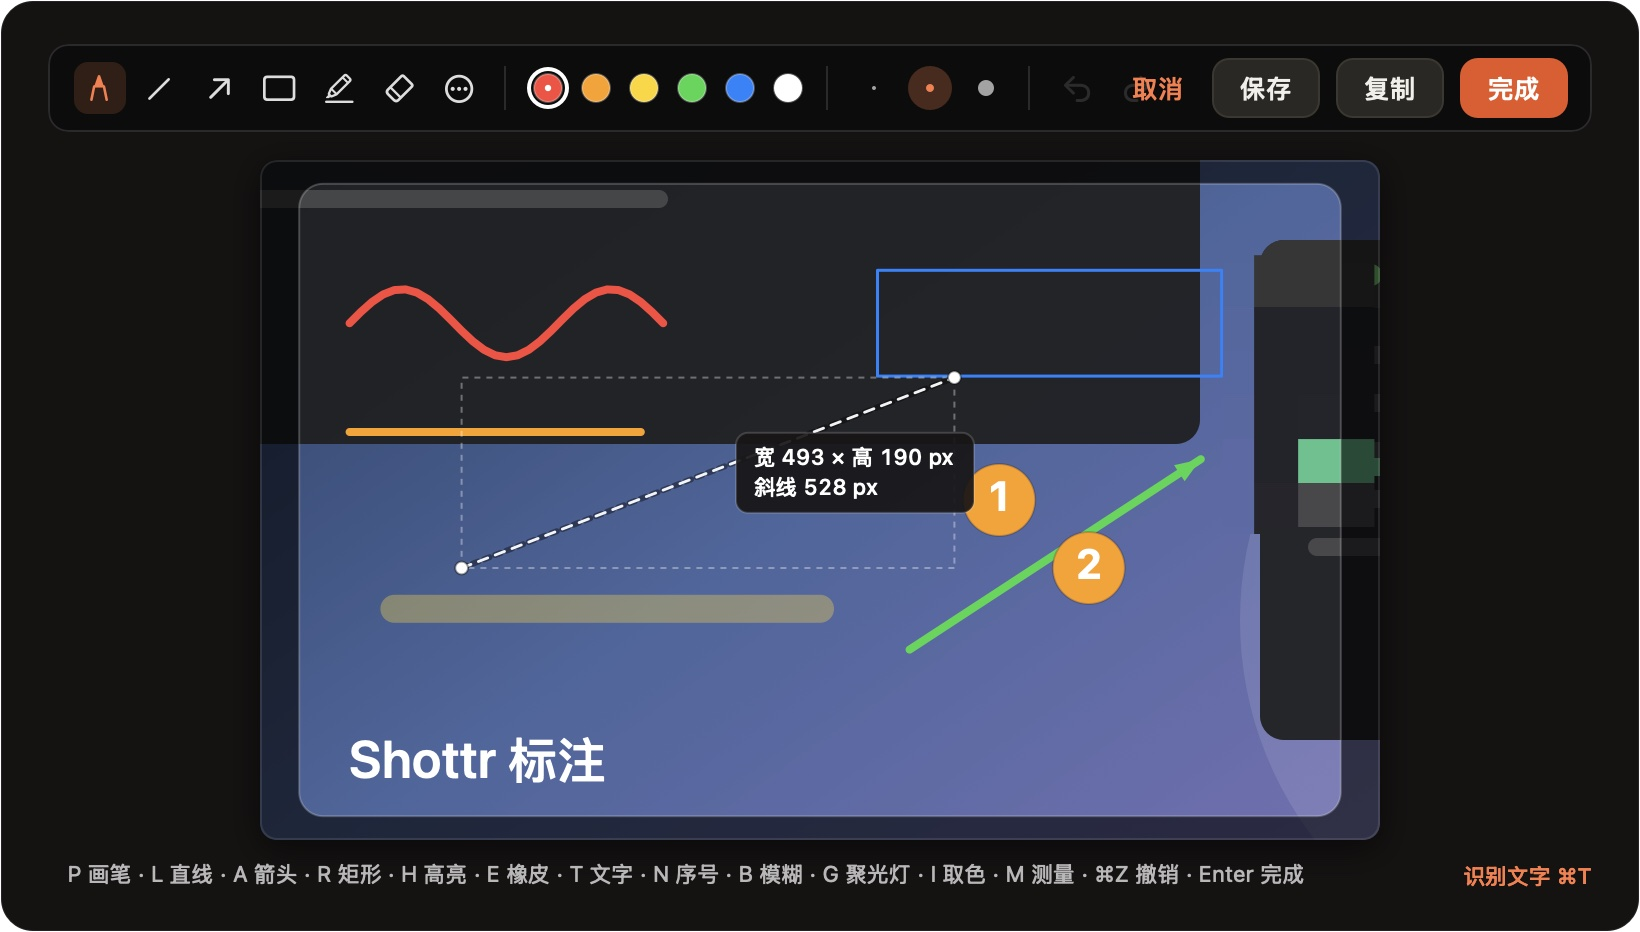
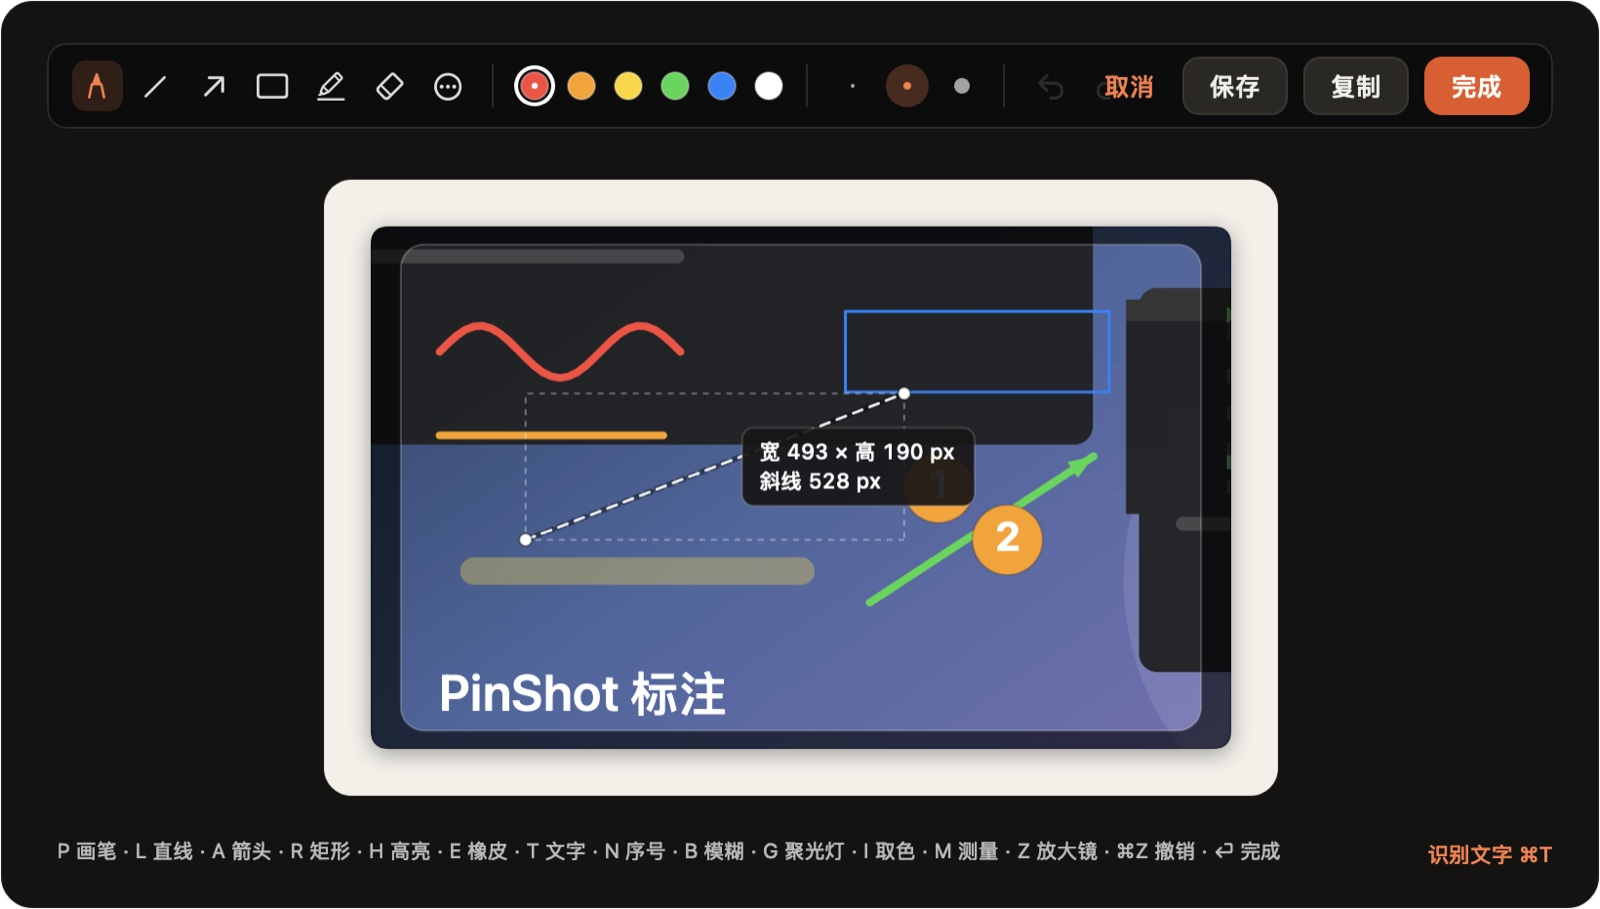
docs: polish product site and add v1.1.0 download cards

Changed region(s): [[0.0312, 0.154, 0.8438, 0.9549]]

diff --git a/docs/index.html b/docs/index.html
@@ -4,12 +4,12 @@
 <meta charset="utf-8">
 <meta name="viewport" content="width=device-width, initial-scale=1">
 <title>PinShot — 截图之后，别让它消失</title>
-<meta name="description" content="PinShot 是 macOS 菜单栏里的截图挂件：框选、标注、缩放，浮在窗口之上或挂在桌面；鼠标离开自动淡出。开源、原生 AppKit、无第三方依赖。">
+<meta name="description" content="PinShot 是 macOS 菜单栏里的截图挂件：框选、标注、OCR、滚动截图、背景板；浮在窗口之上或挂在桌面，鼠标离开自动淡出。开源、原生 AppKit、无第三方依赖。">
 <link rel="canonical" href="https://xincxiong.github.io/PinShot/">
 <meta name="theme-color" content="#171a1d">
 <meta property="og:type" content="website">
 <meta property="og:title" content="PinShot — 截图之后，别让它消失">
-<meta property="og:description" content="macOS 截图挂件：框选、标注、缩放、挂在桌面，自动隐藏。">
+<meta property="og:description" content="macOS 截图挂件：框选、标注、OCR、滚动截图、背景板，自动隐藏。">
 <meta property="og:url" content="https://xincxiong.github.io/PinShot/">
 <meta property="og:image" content="images/app-icon.png">
 <link rel="icon" href="images/app-icon.png">
@@ -22,11 +22,12 @@
     <a class="brand" href="#top" aria-label="PinShot 首页">
       <img src="images/app-icon.png" alt="" width="26" height="26">
       <span>PinShot</span>
-      <small>1.0.0</small>
+      <small>1.1.0</small>
     </a>
     <nav class="nav" aria-label="主导航">
       <a href="#modes">贴图</a>
       <a href="#annotate">标注</a>
+      <a href="#toolbox">工具</a>
       <a href="#install">安装</a>
       <a href="https://github.com/xincxiong/PinShot" rel="noopener">GitHub</a>
     </nav>
@@ -38,11 +39,12 @@
   <section class="hero" aria-labelledby="hero-title">
     <div class="container hero-grid">
       <div class="hero-copy">
+        <div class="release-pill"><span class="status-dot"></span>1.1.0 已发布 · OCR / 滚动截图 / 背景板</div>
         <p class="meta">macOS 14+ · Windows 10/11 · 开源 · MIT</p>
         <h1 id="hero-title">截图之后，<br><span class="outline">别让它消失。</span></h1>
         <p class="lede">PinShot 把框选截图变成一块随手可用的挂件：可以标注、识别文字、缩放，浮在窗口之上，或像便签一样挂在桌面。鼠标移开自动淡出，扫回原处立刻恢复。</p>
         <div class="hero-actions">
-          <a class="btn-primary" href="https://github.com/xincxiong/PinShot/releases/download/v1.0.0/PinShot-1.0.0-macOS-arm64.dmg">下载 1.0.0</a>
+          <a class="btn-primary" href="https://github.com/xincxiong/PinShot/releases/download/v1.1.0/PinShot-1.1.0-macOS-arm64.dmg">下载 1.1.0</a>
           <a class="text-link" href="https://github.com/xincxiong/PinShot" rel="noopener">在 GitHub 查看源码 <span aria-hidden="true">↗</span></a>
         </div>
         <dl class="facts">
@@ -80,7 +82,9 @@
       <span class="key">⇧⌘2</span><span>框选</span>
       <span class="arrow" aria-hidden="true">→</span><span class="key">A</span><span>标注</span>
       <span class="arrow" aria-hidden="true">→</span><span>拖角缩放</span>
-      <span class="arrow" aria-hidden="true">→</span><span>贴在桌面</span>
+      <span class="arrow" aria-hidden="true">→</span><span>OCR 取字</span>
+      <span class="arrow" aria-hidden="true">→</span><span>滚动截图</span>
+      <span class="arrow" aria-hidden="true">→</span><span>背景板</span>
       <span class="arrow" aria-hidden="true">→</span><span>自动淡出</span>
     </div>
   </div>
@@ -110,6 +114,43 @@
         </div>
         <p>放在桌面图标之上、普通窗口之下。工作窗口盖上来时它安静待着，回到桌面它就在那里。</p>
       </article>
+    </div>
+  </section>
+
+  <section class="section toolbox-section" id="toolbox">
+    <div class="container toolbox-head">
+      <div>
+        <p class="section-label">工具矩阵</p>
+        <h2>截图之后，<br>还能做更多。</h2>
+      </div>
+      <p>从快速取字到长图拼接，从像素放大到干净导出；常用的那几件事，不需要再打开第二个 App。</p>
+    </div>
+    <div class="container toolbox-list">
+      <div class="tool-row">
+        <div class="tool-name"><span class="tool-mark">Aa</span><h3>文字识别</h3></div>
+        <p>自动识别截图中的中英文与二维码，结果面板可直接选择或复制全文。</p>
+        <span class="tool-keys"><kbd>⌘T</kbd></span>
+      </div>
+      <div class="tool-row">
+        <div class="tool-name"><span class="tool-mark">↕</span><h3>滚动截图</h3></div>
+        <p>框选后自动滚动并拼接长页面；没有辅助功能权限时，手动滚动也能完成。</p>
+        <span class="tool-keys"><kbd>菜单栏</kbd></span>
+      </div>
+      <div class="tool-row">
+        <div class="tool-name"><span class="tool-mark">◱</span><h3>窗口 / 全屏 / 延时</h3></div>
+        <p>从窗口列表选择、截取整屏，或留出 3/5/10 秒布置界面；也能重复上次区域。</p>
+        <span class="tool-keys"><kbd>Shift</kbd><span>正方形</span></span>
+      </div>
+      <div class="tool-row">
+        <div class="tool-name"><span class="tool-mark">⌕</span><h3>像素工具</h3></div>
+        <p>放大镜查看像素、取色复制 hex、测量像素尺寸，并显示 WCAG 对白/对黑对比度。</p>
+        <span class="tool-keys"><kbd>Z</kbd><kbd>I</kbd><kbd>M</kbd></span>
+      </div>
+      <div class="tool-row">
+        <div class="tool-name"><span class="tool-mark">▤</span><h3>背景板</h3></div>
+        <p>给截图垫一层纸白、石墨、纯白或信号橙底色，加圆角与阴影后直接贴图或导出。</p>
+        <span class="tool-keys"><kbd>⋯</kbd><span>更多工具</span></span>
+      </div>
     </div>
   </section>
 
@@ -173,7 +214,7 @@
           <p class="section-label">首次使用</p>
           <h2>三步，第一张挂件。</h2>
         </div>
-        <p class="install-aside">macOS 14+ / Apple Silicon；Windows 10/11 x64。macOS 安装包约 1.7 MB，Windows 便携包约 151 MB。</p>
+        <p class="install-aside">macOS 14+ / Apple Silicon；Windows 10/11 x64。macOS 安装包约 2.5 MB，Windows 便携包约 151 MB。</p>
       </div>
       <ol class="steps">
         <li class="step">
@@ -202,19 +243,35 @@
   </section>
 
   <section class="download" id="download">
-    <div class="container download-grid">
+    <div class="container download-head">
       <div>
         <p class="section-label light">下载</p>
         <h2>把下一张截图<br>留在屏幕上。</h2>
-        <p class="download-note">v1.0.0 · macOS 14+ / Windows 10+ · MIT 开源</p>
       </div>
-      <div class="download-actions">
-        <a class="btn-primary big" href="https://github.com/xincxiong/PinShot/releases/download/v1.0.0/PinShot-1.0.0-macOS-arm64.dmg">下载 DMG <span aria-hidden="true">↓</span></a>
-        <a class="btn-outline" href="https://github.com/xincxiong/PinShot/releases/download/v1.0.0/PinShot-1.0.0-macOS-arm64.zip">下载 macOS ZIP</a>
-        <a class="btn-outline" href="https://github.com/xincxiong/PinShot/releases/download/v1.0.0-windows/PinShot-1.0.0-windows-x64.zip">下载 Windows (Beta)</a>
-        <a class="text-link light" href="https://github.com/xincxiong/PinShot/releases/tag/v1.0.0" rel="noopener">macOS 版本说明与校验和 <span aria-hidden="true">↗</span></a>
-        <a class="text-link light" href="https://github.com/xincxiong/PinShot/releases/tag/v1.0.0-windows" rel="noopener">Windows 版本说明 <span aria-hidden="true">↗</span></a>
-      </div>
+      <p>macOS 1.1.0 已发布；Windows 版为 Beta。两个平台都开源，无需账户。</p>
+    </div>
+    <div class="container platforms">
+      <article class="platform-card">
+        <div class="platform-top"><span class="platform-os">macOS</span><span class="platform-version">1.1.0</span></div>
+        <p>macOS 14+ · Apple Silicon · 原生 AppKit</p>
+        <div class="platform-actions">
+          <a class="btn-primary" href="https://github.com/xincxiong/PinShot/releases/download/v1.1.0/PinShot-1.1.0-macOS-arm64.dmg">下载 DMG <span aria-hidden="true">↓</span></a>
+          <a class="btn-outline" href="https://github.com/xincxiong/PinShot/releases/download/v1.1.0/PinShot-1.1.0-macOS-arm64.zip">ZIP</a>
+        </div>
+        <a class="platform-link" href="https://github.com/xincxiong/PinShot/releases/tag/v1.1.0" rel="noopener">版本说明与校验和 <span aria-hidden="true">↗</span></a>
+      </article>
+      <article class="platform-card platform-beta">
+        <div class="platform-top"><span class="platform-os">Windows</span><span class="platform-version">1.0.0 · Beta</span></div>
+        <p>Windows 10/11 x64 · Electron 便携版</p>
+        <div class="platform-actions">
+          <a class="btn-outline" href="https://github.com/xincxiong/PinShot/releases/download/v1.0.0-windows/PinShot-1.0.0-windows-x64.zip">下载 ZIP <span aria-hidden="true">↓</span></a>
+        </div>
+        <a class="platform-link" href="https://github.com/xincxiong/PinShot/releases/tag/v1.0.0-windows" rel="noopener">Windows Beta 说明 <span aria-hidden="true">↗</span></a>
+      </article>
+    </div>
+    <div class="container download-foot">
+      <span>v1.1.0 · MIT 开源</span>
+      <span>首次打开 macOS 版需右键 → 打开；Windows 需 SmartScreen 允许。</span>
     </div>
   </section>
 </main>

diff --git a/docs/style.css b/docs/style.css
@@ -317,3 +317,118 @@ code, pre { font-family: var(--mono); font-size: 12px; }
   html { scroll-behavior: auto; }
   *, *::before, *::after { animation: none !important; transition: none !important; }
 }
+
+/* ---------- 1.1.0 polish ---------- */
+.hero::after {
+  content: "";
+  position: absolute;
+  inset: -20% -10% auto auto;
+  width: 720px;
+  height: 720px;
+  background: radial-gradient(circle, rgba(232, 85, 31, .16), rgba(232, 85, 31, 0) 62%);
+  pointer-events: none;
+  z-index: 0;
+}
+.hero .container { position: relative; z-index: 1; }
+.release-pill {
+  display: inline-flex;
+  align-items: center;
+  gap: 8px;
+  font-family: var(--mono);
+  font-size: 10.5px;
+  color: rgba(251, 250, 246, .74);
+  border: 1px solid rgba(251, 250, 246, .16);
+  background: rgba(251, 250, 246, .06);
+  padding: 6px 10px;
+  border-radius: 999px;
+  margin-bottom: 20px;
+}
+.status-dot {
+  width: 6px; height: 6px; border-radius: 50%;
+  background: var(--signal-bright);
+  box-shadow: 0 0 0 3px rgba(232, 85, 31, .16);
+}
+.hero .meta { margin-bottom: 0; }
+.pin-card { transition: transform .28s cubic-bezier(.2, .8, .2, 1), box-shadow .28s ease; }
+.pin-card:hover { transform: rotate(var(--rot)) translateY(-5px); box-shadow: 0 42px 84px rgba(0,0,0,.55), 0 4px 12px rgba(0,0,0,.3); }
+.nav a { position: relative; }
+.nav a::after {
+  content: ""; position: absolute; left: 0; right: 0; bottom: -6px; height: 1px;
+  background: var(--signal); transform: scaleX(0); transform-origin: left;
+  transition: transform .2s ease;
+}
+.nav a:hover::after { transform: scaleX(1); }
+.nav a[href*="github"]::after { display: none; }
+
+/* toolbox */
+.toolbox-head {
+  display: flex; align-items: end; justify-content: space-between; gap: 48px;
+  margin-bottom: 40px;
+}
+.toolbox-head p { max-width: 40ch; color: var(--muted); font-size: 14.5px; }
+.toolbox-list { border-top: 1px solid var(--line-strong); }
+.tool-row {
+  display: grid; grid-template-columns: .9fr 1.5fr auto;
+  gap: 32px; align-items: center;
+  padding: 22px 8px;
+  border-bottom: 1px solid var(--line);
+  transition: background .18s ease, padding .18s ease;
+}
+.tool-row:hover { background: rgba(23, 26, 29, .035); padding-left: 16px; padding-right: 16px; }
+.tool-name { display: flex; align-items: center; gap: 14px; }
+.tool-mark {
+  display: inline-flex; align-items: center; justify-content: center;
+  width: 30px; height: 30px; flex: none;
+  border: 1px solid var(--line-strong); border-radius: 7px;
+  font-family: var(--mono); font-size: 12px; color: var(--signal);
+  background: var(--panda);
+}
+.tool-name h3 { font-size: 18px; letter-spacing: -.02em; font-weight: 650; }
+.tool-row > p { font-size: 13.5px; color: var(--muted); line-height: 1.65; max-width: 60ch; }
+.tool-keys { display: inline-flex; align-items: center; gap: 6px; justify-self: end; }
+.tool-keys span { font-size: 11px; color: var(--muted); }
+
+/* download */
+.download-head {
+  display: flex; align-items: end; justify-content: space-between; gap: 48px;
+  margin-bottom: 44px;
+}
+.download-head p { max-width: 32ch; color: var(--muted-light); font-size: 13px; }
+.platforms { display: grid; grid-template-columns: 1fr 1fr; gap: 18px; }
+.platform-card {
+  border: 1px solid var(--line-light);
+  background: rgba(251, 250, 246, .035);
+  border-radius: 12px;
+  padding: 24px 24px 20px;
+  display: flex; flex-direction: column; gap: 12px;
+  transition: border-color .2s ease, background .2s ease, transform .2s ease;
+}
+.platform-card:hover { border-color: rgba(251,250,246,.34); background: rgba(251,250,246,.055); transform: translateY(-2px); }
+.platform-beta { opacity: .9; }
+.platform-top { display: flex; align-items: baseline; justify-content: space-between; gap: 12px; }
+.platform-os { font-size: 22px; font-weight: 700; letter-spacing: -.025em; }
+.platform-version { font-family: var(--mono); font-size: 10.5px; color: var(--muted-light); }
+.platform-card > p { font-size: 12px; color: var(--muted-light); }
+.platform-actions { display: flex; flex-wrap: wrap; gap: 10px; margin-top: 8px; }
+.platform-actions .btn-primary { padding: 11px 17px; font-size: 13px; }
+.platform-actions .btn-outline { padding: 10px 16px; font-size: 12.5px; }
+.platform-link { margin-top: auto; padding-top: 12px; font-size: 12px; color: var(--muted-light); border-top: 1px solid var(--line-light); }
+.platform-link:hover { color: var(--panda); }
+.download-foot {
+  display: flex; justify-content: space-between; gap: 24px;
+  margin-top: 28px; padding-top: 18px;
+  border-top: 1px solid var(--line-light);
+  font-family: var(--mono); font-size: 10.5px; color: rgba(251,250,246,.42);
+}
+
+@media (max-width: 980px) {
+  .toolbox-head, .download-head { flex-direction: column; align-items: flex-start; gap: 18px; }
+  .tool-row { grid-template-columns: 1fr auto; gap: 8px 20px; }
+  .tool-row > p { grid-column: 1 / -1; }
+  .platforms { grid-template-columns: 1fr; }
+}
+@media (max-width: 600px) {
+  .tool-row { grid-template-columns: 1fr; }
+  .tool-keys { justify-self: start; }
+  .download-foot { flex-direction: column; }
+}
